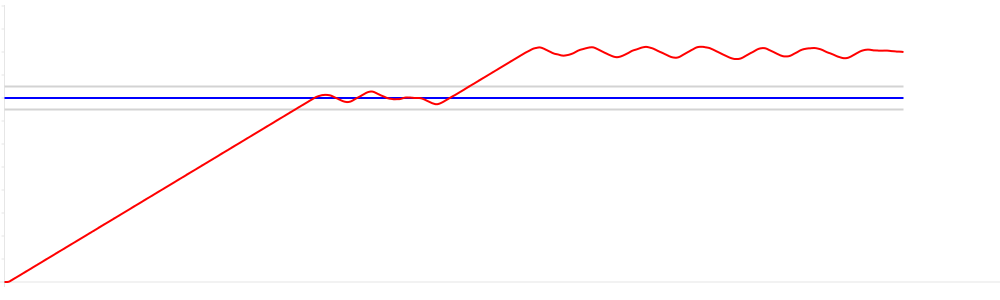
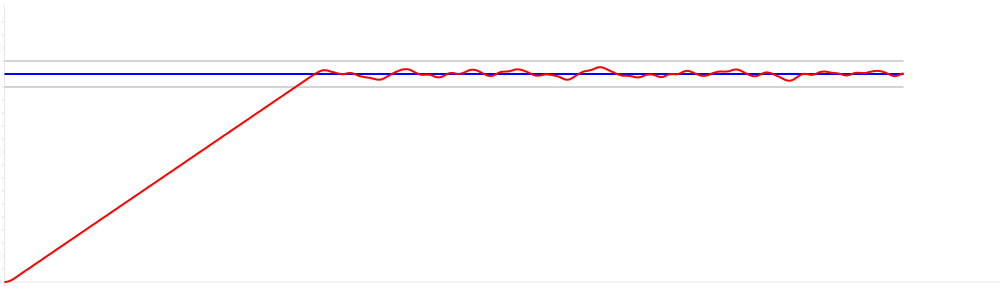
improved derrivative factor

Changed region(s): [[0.0, 0.15, 0.899, 0.9], [0.0, 0.9, 0.031, 0.93]]

diff --git a/sims/thrustController.js b/sims/thrustController.js
@@ -2,22 +2,26 @@ var exports = exports || {};
 
 exports.Controller = function () {
 
-    this.errorLength = 10;
+    /*
+     * Values used by I factor for a error queue
+     */
+    this.errorLength = 20;
     this.errors = [];
 
-    this.Kp = 0.4;
-    this.Ki = 0.02;
-    this.Kd = 0.1;
-
-    this.deltaMultiplier = 1;
+    this.Kp = 0.6;
+    this.Ki = 0.08;
+    this.Kd = 0.75;
 
     this.maxOutput = 144; // [PWM] Max thrust set at 80%
     this.minOutput = 45; // [PWM] Min thrust set at 25%
-    this.maxDelta = 20; // [PWM]
+    this.maxDelta = 60; // [PWM]
 
     this.currentOutput = 0; // [PWM]
 
     this.previousInput = 0;
+
+    this.inputLength = 10;
+    this.inputs = [];
 
     this.cap = function (value) {
         //cap max
@@ -63,14 +67,17 @@ exports.Controller = function () {
      * @returns {number}
      */
     this.computeD = function (target, current) {
-        var retVal,
-            delta = current - this.previousInput;
+        var retVal = 0,
+            delta,
+            future;
 
-        retVal = target - (current + (delta * this.deltaMultiplier));
+        if (this.inputs.length == this.inputLength) {
+            delta = current - this.inputs[0];
+            future = current + delta;
+            retVal = this.Kd * (target - future);
+        }
 
-        retVal = this.Kd * retVal;
-
-        this.previousInput = current;
+        console.log(retVal);
 
         return retVal;
     };
@@ -85,6 +92,13 @@ exports.Controller = function () {
         }
     };
 
+    this.pushCurrentInput = function (value) {
+        this.inputs.push(value);
+        if (this.inputs.length > this.inputLength) {
+            this.inputs.shift();
+        }
+    };
+
     /**
      *
      * @param {float} target
@@ -93,6 +107,8 @@ exports.Controller = function () {
      */
     this.run = function (target, current) {
         var delta = 0;
+
+        this.pushCurrentInput(current);
 
         delta += this.computeP(target, current);
         delta += this.computeI();

diff --git a/sims/sim.js b/sims/sim.js
@@ -26,15 +26,14 @@ m.altitudeError = 50;
  * Run model for given number of iterations
  */
 for(i = 0; i < 900; i++) {
-
-    if (i === 450) {
-        m.targetAltitude = 500;
-    }
+    // if (i === 450) {
+    //     m.targetAltitude = 500;
+    // }
 
     m.run();
 }
 
-console.log("Outputs", m.outputs);
+// console.log("Outputs", m.outputs);
 //console.log("Altitudes", m.altitudes);
 
 var Canvas = require('canvas')

diff --git a/sims/thrustModel.js b/sims/thrustModel.js
@@ -31,11 +31,11 @@ exports.Model = function () {
     this.controller = null;
 
     //Bigger value causes bigger inertia and it takes longer to archive desired speed
-    this.delayFactor = 0.75;
+    this.delayFactor = 0.9;
 
     this.altitudeError = 50; // [cm]
 
-    this.inertiaLength = 2;
+    this.inertiaLength = 9;
     this.speedInertias = [];
 
     this.zeroThrustAt = 90; // [pwm]
